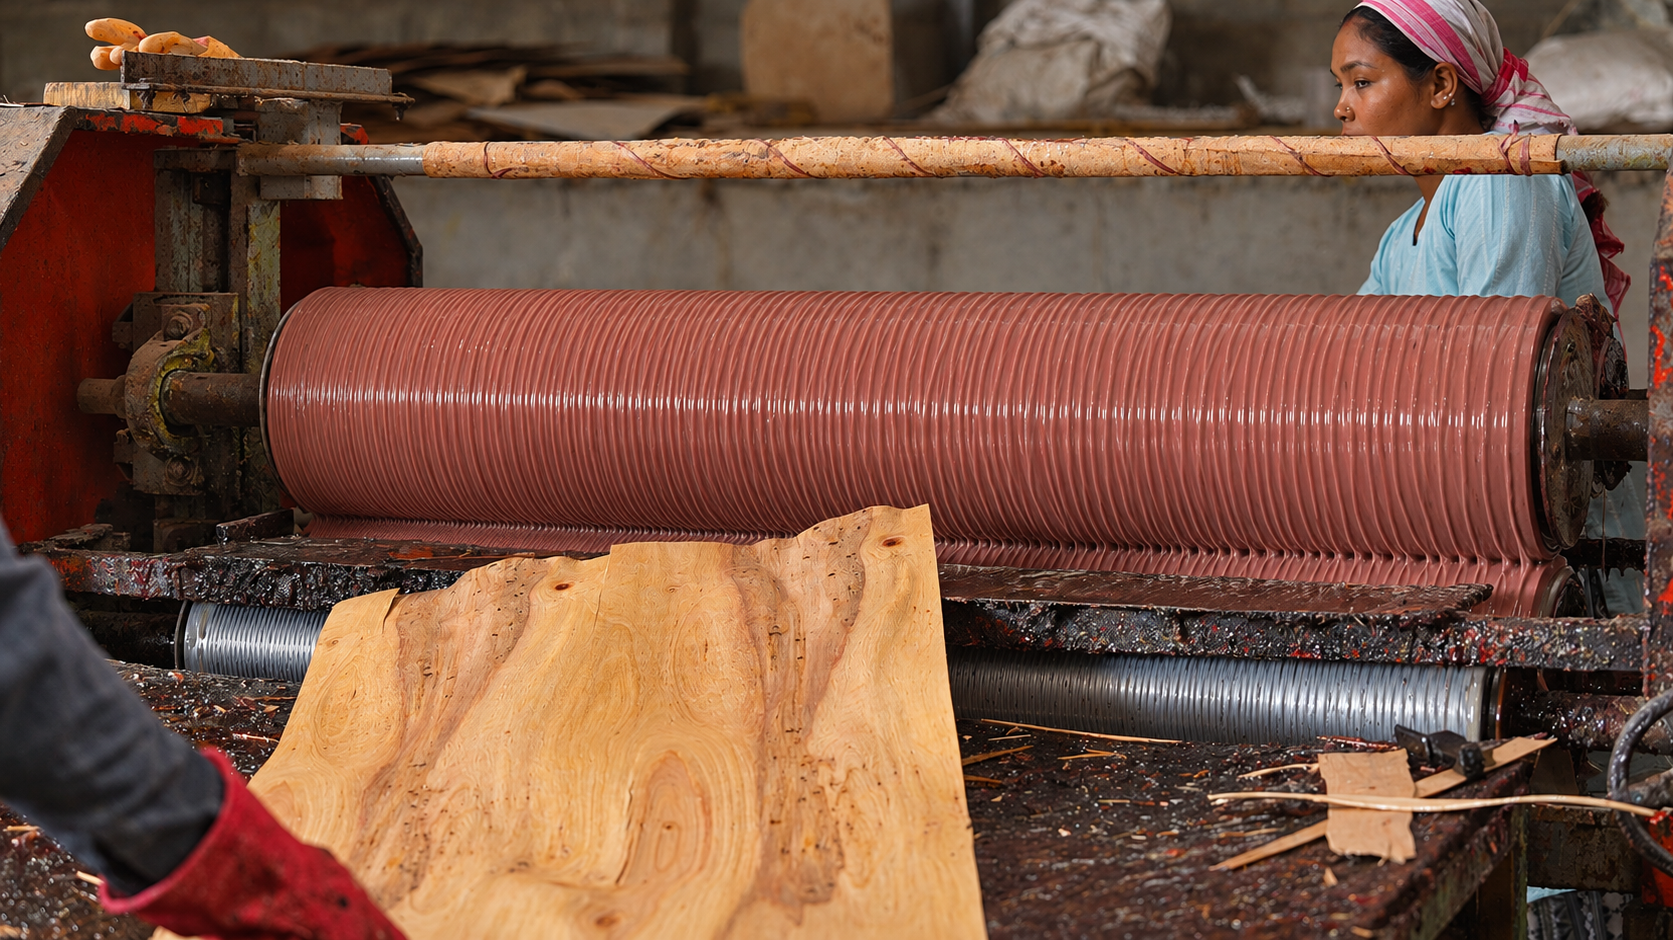
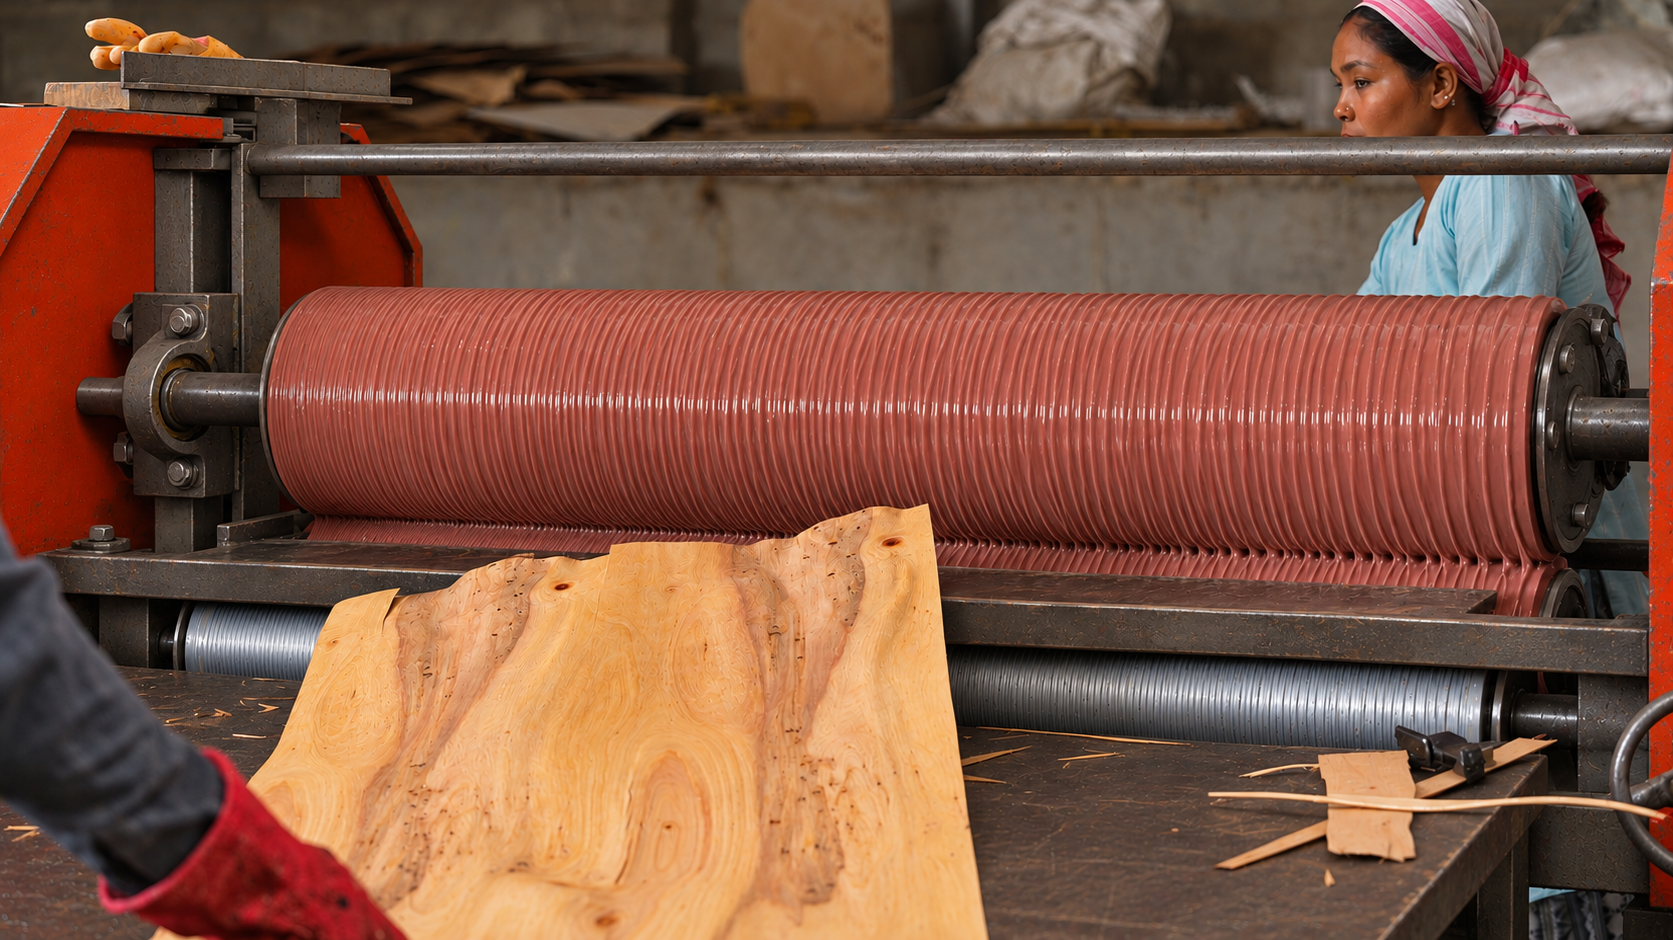
final?

diff --git a/src/components/home/SpacesMain.jsx b/src/components/home/SpacesMain.jsx
@@ -26,6 +26,15 @@ const EASE = "ease-[cubic-bezier(0.65,0,0.35,1)]";
  * e.g. "MR - 18mm").
  * On phones/tablets the row scrolls sideways.
  */
+/** Card photos by application slug (an `imageUrl` in applications.json overrides these) */
+const IMAGES = {
+  interiors: "/images/applications/interiors.jpg",
+  "furniture-kitchens": "/images/applications/furniture-kitchens.jpg",
+  "commercial-public": "/images/applications/commercial-public.jpg",
+  "industrial-transport": "/images/applications/industrial-transport.jpg",
+  specialist: "/images/applications/specialist.jpg",
+};
+
 export function SpacesMain({ apps, products }) {
   const [active, setActive] = useState(-1);
   const pressing = useRef(false);
@@ -85,8 +94,14 @@ export function SpacesMain({ apps, products }) {
                     <div
                       className={`absolute inset-0 transition-transform duration-700 ${EASE} ${open ? "scale-110" : "scale-100"}`}
                     >
-                      {a.imageUrl ? (
-                        <Image src={a.imageUrl} alt="" fill sizes="(min-width:1024px) 20vw, 70vw" className="object-cover" />
+                      {a.imageUrl || IMAGES[a.slug] ? (
+                        <Image
+                          src={a.imageUrl || IMAGES[a.slug]}
+                          alt=""
+                          fill
+                          sizes="(min-width:1024px) 20vw, 70vw"
+                          className="object-cover"
+                        />
                       ) : (
                         <div
                           className="absolute inset-0"

diff --git a/src/components/layout/Footer.jsx b/src/components/layout/Footer.jsx
@@ -15,8 +15,8 @@ import { Phone, Mail } from "@/components/ui/Icon";
  *   (Entries in company.json "social" — e.g. { "platform": "instagram", "url": "…" } — override them.)
  */
 const SOCIAL_LINKS = {
-  instagram: "https://www.instagram.com/",
-  facebook: "https://www.facebook.com/",
+  instagram: "https://www.instagram.com/thexspaceply",
+  facebook: "https://www.facebook.com/share/1HT8ZvbhNS/",
 };
 
 const InstagramIcon = ({ className = "h-4 w-4" }) => (
